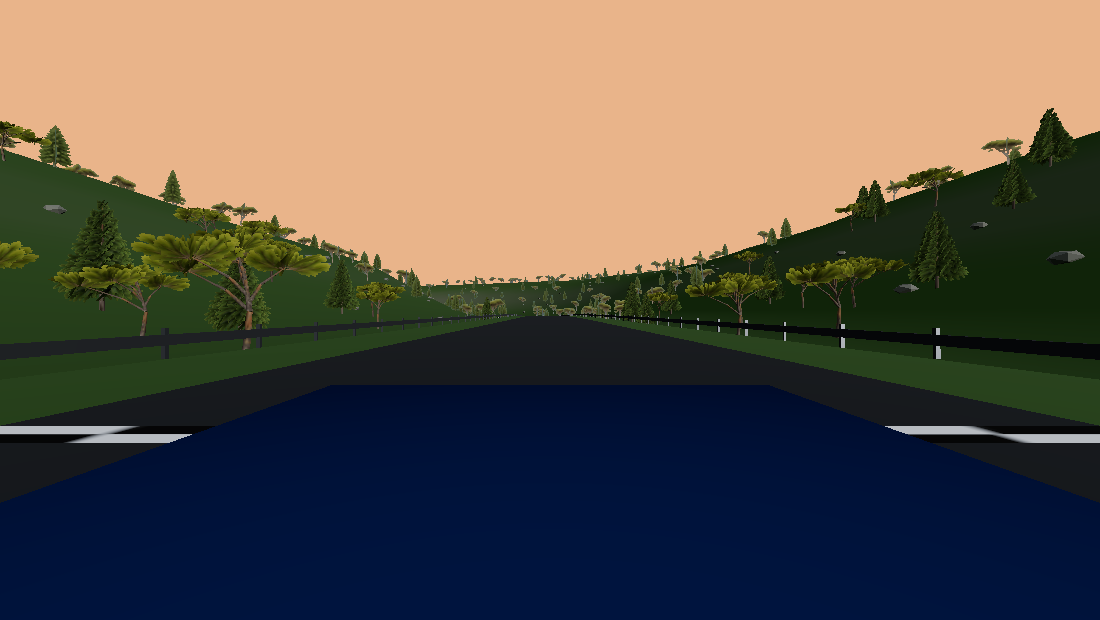
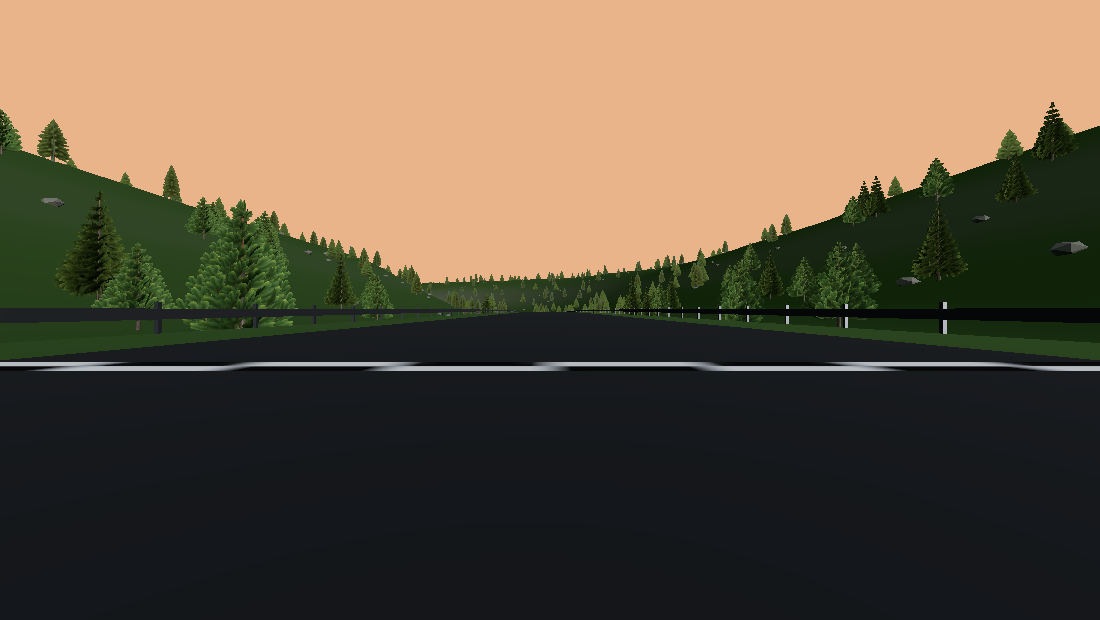
将赛道平顶树冠替换为银冷杉和高山松

diff --git a/src/track/trees.ts b/src/track/trees.ts
@@ -6,12 +6,16 @@ type Point = [number, number, number];
 type Patch = [number, number, number, number];
 
 // The spray atlas uses a 2x2 layout: three branch cutouts, then bark.
-// Distant cutouts retain the aspect ratio of the original whole-tree photos.
+// Dimensions pair each near model with its corresponding whole-tree cutout.
 const species = {
-  tree_a: { height: 9.5, aspect: 389/695, foliage: [0.013, 0.515, 0.487, 0.985], green: '#456143' },
-  tree_b: { height: 9.0, aspect: 639/680, foliage: [0.513, 0.515, 0.987, 0.985], green: '#51633F' },
-  tree_c: { height: 7.6, aspect: 885/663, foliage: [0.013, 0.015, 0.487, 0.485], green: '#5B663C' },
-} satisfies Record<string, {height: number; aspect: number; foliage: Patch; green: string}>;
+  tree_a: { height: 9.5, aspect: 389/695, base: 1.8, tiers: 10, boughs: 8, seed: 317,
+    foliage: [0.013, 0.515, 0.487, 0.985], green: '#456143' },
+  tree_b: { height: 11.6, aspect: 412/695, base: 1.45, tiers: 13, boughs: 6, seed: 521,
+    foliage: [0.513, 0.515, 0.987, 0.985], green: '#48695C' },
+  tree_c: { height: 8.8, aspect: 441/695, base: 1.7, tiers: 9, boughs: 7, seed: 733,
+    foliage: [0.013, 0.015, 0.487, 0.485], green: '#4A6244' },
+} satisfies Record<string, { height: number; aspect: number; base: number; tiers: number;
+  boughs: number; seed: number; foliage: Patch; green: string }>;
 const bark: Patch = [0.515, 0.017, 0.985, 0.480];
 type Species = keyof typeof species;
 
@@ -25,11 +29,11 @@ function branch(from: Point, to: Point, base: number, tip: number) {
 
 // Three irregular rings describe the shaded underside, ragged fringe and sunlit
 // top of a spray of needles. Shared vertices keep the canopy rounded in daylight.
-function crown(center: Point, rx: number, rz: number, depth: number, spruce: boolean, rng: () => number) {
-  const sides = spruce ? 10 : 8;
+function crown(center: Point, rx: number, rz: number, depth: number, rng: () => number) {
+  const sides = 10;
   const phase = rng() * Math.PI;
   const points: number[] = [], uv: number[] = [], indices: number[] = [];
-  const ridge = Array.from({length:sides}, (_, i) => 0.80 + 0.20*rng() + (spruce && i%2 === 0 ? 0.24 : 0));
+  const ridge = Array.from({length:sides}, (_, i) => 0.80 + 0.20*rng() + (i%2 === 0 ? 0.24 : 0));
   const ring = (scale: number, rise: number) => {
     for (let i = 0; i < sides; i++) {
       const angle = phase + 2*Math.PI*i/sides;
@@ -39,8 +43,8 @@ function crown(center: Point, rx: number, rz: number, depth: number, spruce: boo
     }
   };
   ring(0.20, -0.33);
-  ring(1.00, spruce ? -0.18 : 0);
-  ring(spruce ? 0.33 : 0.68, 0.60);
+  ring(1.00, -0.18);
+  ring(0.33, 0.60);
   const apex = points.length/3;
   points.push(center[0],center[1]+depth,center[2]);
   uv.push(0.5,1);
@@ -73,45 +77,40 @@ function sprayCard(width: number, height: number, bend: number, slope: number, t
   return geometry;
 }
 
-function addWhorl(add: (g: THREE.BufferGeometry) => void, y: number, radius: number, tier: number, rng: () => number) {
-  const count = 8;
-  const phase = tier*2.39996;
-  for (let i = 0; i < count; i++) {
-    const direction = phase + (i + rng()*0.34)*2*Math.PI/count;
-    const reach = radius*(0.87+0.25*rng());
-    const height = 0.42+radius*0.58;
-    const lift = y + (rng()-0.5)*0.4;
-    // The cutout tapers toward its left side. Mount its right end at
-    // the trunk; two half-sprays fan out from one branch crotch.
-    for (const side of [-1,1]) {
-      const g = sprayCard(reach,height,side*reach*0.19,height*0.12,side*height*0.20);
-      g.translate(-reach*0.55,lift,side*0.08*reach);
-      g.rotateY(direction + side*0.17);
-      add(g);
+function addWhorl(id: Species, add: (g: THREE.BufferGeometry) => void, y: number, radius: number,
+  tier: number, rng: () => number) {
+  const form = species[id];
+  const fir = id === 'tree_b', pine = id === 'tree_c';
+  const phase = tier * 2.39996;
+  for (let i = 0; i < form.boughs; i++) {
+    const direction = phase + (i + rng() * 0.30) * 2 * Math.PI / form.boughs;
+    const reach = radius * (0.88 + rng() * 0.22);
+    const lift = y + (rng() - 0.5) * 0.22;
+    // The fir carries flat shelves. Spruce twigs hang down, stone pine tips
+    // turn up. The cut end of each textured spray is at its right edge.
+    const height = reach * (fir ? 0.32 : pine ? 0.53 : 0.64) + 0.08;
+    for (const side of [-1, 1]) {
+      const spray = sprayCard(reach, height, side * reach * 0.16, 0, side * height * 0.14);
+      spray.translate(-reach * 0.50, 0, 0);
+      spray.rotateX(side * (fir ? 0.76 : 0.38));
+      spray.rotateZ(fir ? -0.08 : pine ? -0.25 : 0.14);
+      spray.rotateY(direction + side * (pine ? 0.23 : 0.17));
+      add(spray.translate(0, lift, 0));
     }
-  }
-}
-
-function addCloud(add: (g: THREE.BufferGeometry) => void, center: Point, radius: number, umbrella: boolean, rng: () => number) {
-  // Each woody stem ends at the centre of this cluster. Attach the cut end
-  // of each spray there and let its needles point out and up into the light.
-  const phase = rng() * 2 * Math.PI;
-  for (let i = 0; i < 12; i++) {
-    const upright = i >= 8;
-    const reach = radius * (upright ? 0.63 : 1.05) * (0.85 + 0.28 * rng());
-    const height = reach * (umbrella ? 0.58 : 0.76);
-    const spray = sprayCard(reach, height, reach * (rng() - 0.5) * 0.29, 0, 0);
-    spray.translate(-reach / 2, 0, 0);
-    spray.rotateX((rng() - 0.5) * 1.55);
-    spray.rotateZ(-(upright ? 0.68 : 0.10) - rng() * (umbrella ? 0.27 : 0.48));
-    spray.rotateY(phase + i * 2.39996);
-    add(spray.translate(...center));
+    if (pine) {
+      const tip = sprayCard(reach * 0.52, height * 0.78, reach * 0.06, 0, 0);
+      tip.translate(-reach * 0.26, 0, 0);
+      tip.rotateZ(-0.74);
+      tip.translate(-reach * 0.63, reach * 0.12, 0);
+      tip.rotateY(direction);
+      add(tip.translate(0, lift, 0));
+    }
   }
 }
 
 function treeGeometry(id: Species, withSprays: boolean) {
   const form = species[id];
-  const rng = mulberry32(id === 'tree_a' ? 317 : id === 'tree_b' ? 521 : 733);
+  const rng = mulberry32(form.seed);
   const parts: THREE.BufferGeometry[] = [];
   const add = (geometry: THREE.BufferGeometry, wood = false) => {
     const color = new THREE.Color(wood ? '#685544' : form.green).multiplyScalar(0.88 + rng()*0.22);
@@ -126,42 +125,29 @@ function treeGeometry(id: Species, withSprays: boolean) {
     parts.push(geometry);
   };
 
-  if (id === 'tree_a') {
-    add(branch([0,0,0],[0,8.9,0],0.20,0.04),true);
+  const { height, base, aspect, tiers } = form;
+  add(branch([0, 0, 0], [0, height, 0], 0.20, 0.012), true);
+  const tierSpacing = (height - base) / tiers;
+  for (let i = 0; i < tiers; i++) {
+    const t = i / tiers;
+    const y = base + t * (height - base);
+    const radius = height * aspect * 0.49 * (1 - t) ** (id === 'tree_c' ? 0.76 : 0.92);
     if (withSprays) {
-      for (let i = 0; i < 10; i++) {
-        const t = i/10;
-        addWhorl(add,1.9+i*0.79,2.55*(1-t)**0.83,i,rng);
-      }
-    } else for (let i = 0; i < 6; i++) {
-      const radius = 2.5 - i*0.39;
-      add(crown([0,1.65+i*1.24,0],radius,radius*0.92,1.65,true,rng));
+      addWhorl(id, add, y, radius, i, rng);
+    } else {
+      // Solid whorls keep the same taper in overhead views and without PNGs.
+      add(crown([0, y, 0], radius, radius * 0.94, tierSpacing * 1.18, rng));
     }
-  } else {
-    const windswept = id === 'tree_c';
-    const fork: Point = [windswept ? -0.36 : 0.05, form.height*(windswept ? 0.42 : 0.48), 0];
-    add(branch([0,0,0],fork,0.23,0.15),true);
-    const leader: Point = [fork[0] + (windswept ? 0.63 : -0.12), form.height * 0.72, 0.18];
-    add(branch(fork, leader, 0.16, 0.075), true);
-    const count = windswept ? 6 : 7;
-    for (let i = 0; i < count; i++) {
-      const t = i/(count-1);
-      const a = i*2.39996;
-      const reach = windswept ? (1-t)*3.35 : (1-t)*2.75;
-      const x = Math.cos(a)*reach + (windswept ? 1.05 : 0);
-      const z = Math.sin(a)*reach;
-      const y = form.height * ((windswept ? 0.74 : 0.54) + t*(windswept ? 0.15 : 0.35));
-      const joint: Point = [
-        THREE.MathUtils.lerp(fork[0], leader[0], t),
-        THREE.MathUtils.lerp(fork[1], leader[1], t),
-        THREE.MathUtils.lerp(fork[2], leader[2], t),
-      ];
-      const elbow: Point = [joint[0] + 0.37*(x-joint[0]), (joint[1]+y)/2, z*0.31];
-      add(branch(joint,elbow,0.12,0.08),true);
-      add(branch(elbow,[x,y,z],0.084,0.035),true);
-      const radius = (windswept ? 2.35 : 1.78) * (1-0.18*t);
-      if (withSprays) addCloud(add,[x,y,z],radius,windswept,rng);
-      else add(crown([x,y,z],radius,radius*0.84,form.height*0.11,false,rng));
+  }
+  if (withSprays) {
+    // A short terminal shoot carries the silhouette through the topmost gaps.
+    const shoot = height / 12;
+    for (let i = 0; i < 3; i++) {
+      const tip = sprayCard(shoot, shoot * 0.45, 0, 0, 0);
+      tip.translate(-shoot / 2, 0, 0);
+      tip.rotateZ(-1.40);
+      tip.rotateY(i * Math.PI * 2 / 3);
+      add(tip.translate(0, height - shoot, 0));
     }
   }
   const geometry = mergeGeometries(parts)!;

diff --git a/docs/specs/04-赛道与地形.md b/docs/specs/04-赛道与地形.md
@@ -228,7 +228,7 @@ candidates = []
 
 树按空间分区和树种建立实例批次，其他景物每种模型一个 `THREE.InstancedMesh`（如果模型包含多个 mesh，每个子 mesh 各建一个 `InstancedMesh`，共用同一组矩阵）。树：`castShadow = true`（low 画质为 false）；石头：`castShadow = false`。
 
-缺少 GLB 时，近景树使用三种内置模型：分层树冠的云杉、高干的松树和偏冠的海岸松。远景可使用同树种透明贴图，贴图缺失时保留几何树形。石头用 `IcosahedronGeometry(1.2, 0)`，颜色 `#7A7A72`，y 方向缩放 0.6。
+缺少 GLB 时，近景树使用三种内置模型：枝梢下垂的云杉、窄尖塔形的银冷杉和枝端向上生长的高山五针松。远景可使用同树种透明贴图，贴图缺失时保留几何树形。石头用 `IcosahedronGeometry(1.2, 0)`，颜色 `#7A7A72`，y 方向缩放 0.6。
 
 ## 4.7 道具 props
 
